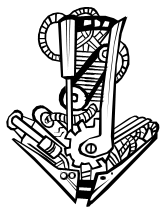
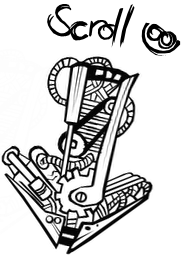
Nasty CSS tretchery

diff --git a/templates/root.html b/templates/root.html
@@ -161,7 +161,7 @@ $(document).ready(function(){
 <div class="content_section">
 
 <!-- start of left content section -->
-<div class="left_content">
+<div class="left_content" style="position:relative; top:40px">
 
   <img src="http://robohash.com/{{ip}}.png" alt="You!" class="left" />
   
@@ -171,12 +171,17 @@ $(document).ready(function(){
 <div class="right_content">
 
  <div class="section_title">How cool is this?</div>
- 
- <p>That guy to your left there? He was specially generated from your IP address <i>Just for you</i>.<br>
-	Try on your phone, and I bet you get someone different! </p>
+ <p> That guy to your left there? He was specially generated from your IP address  <i>Just for you.</i></p>
+<div class="container" >
+	<div class="contain-right" style="width:60%; float:right;">	
+		<p>Try on your phone, and I bet you get someone different!</p>
+  		<p>Keep scrolling down to see some more freshly-assembled RoboHashes.</p>
+	</div>
+	<div class="contain-left" >	
+  		<img src="static/img/down-arrow.png" alt="Scroll down!" height=200 class="left" />
+	</div>
+</div>
 
-  <p>Keep scrolling down to see some more freshly-assembled RoboHashes.</p>
-  <img src="static/img/down-arrow.png" alt="You!" class="left" />
 
 </div><!-- end of right content section -->
 
